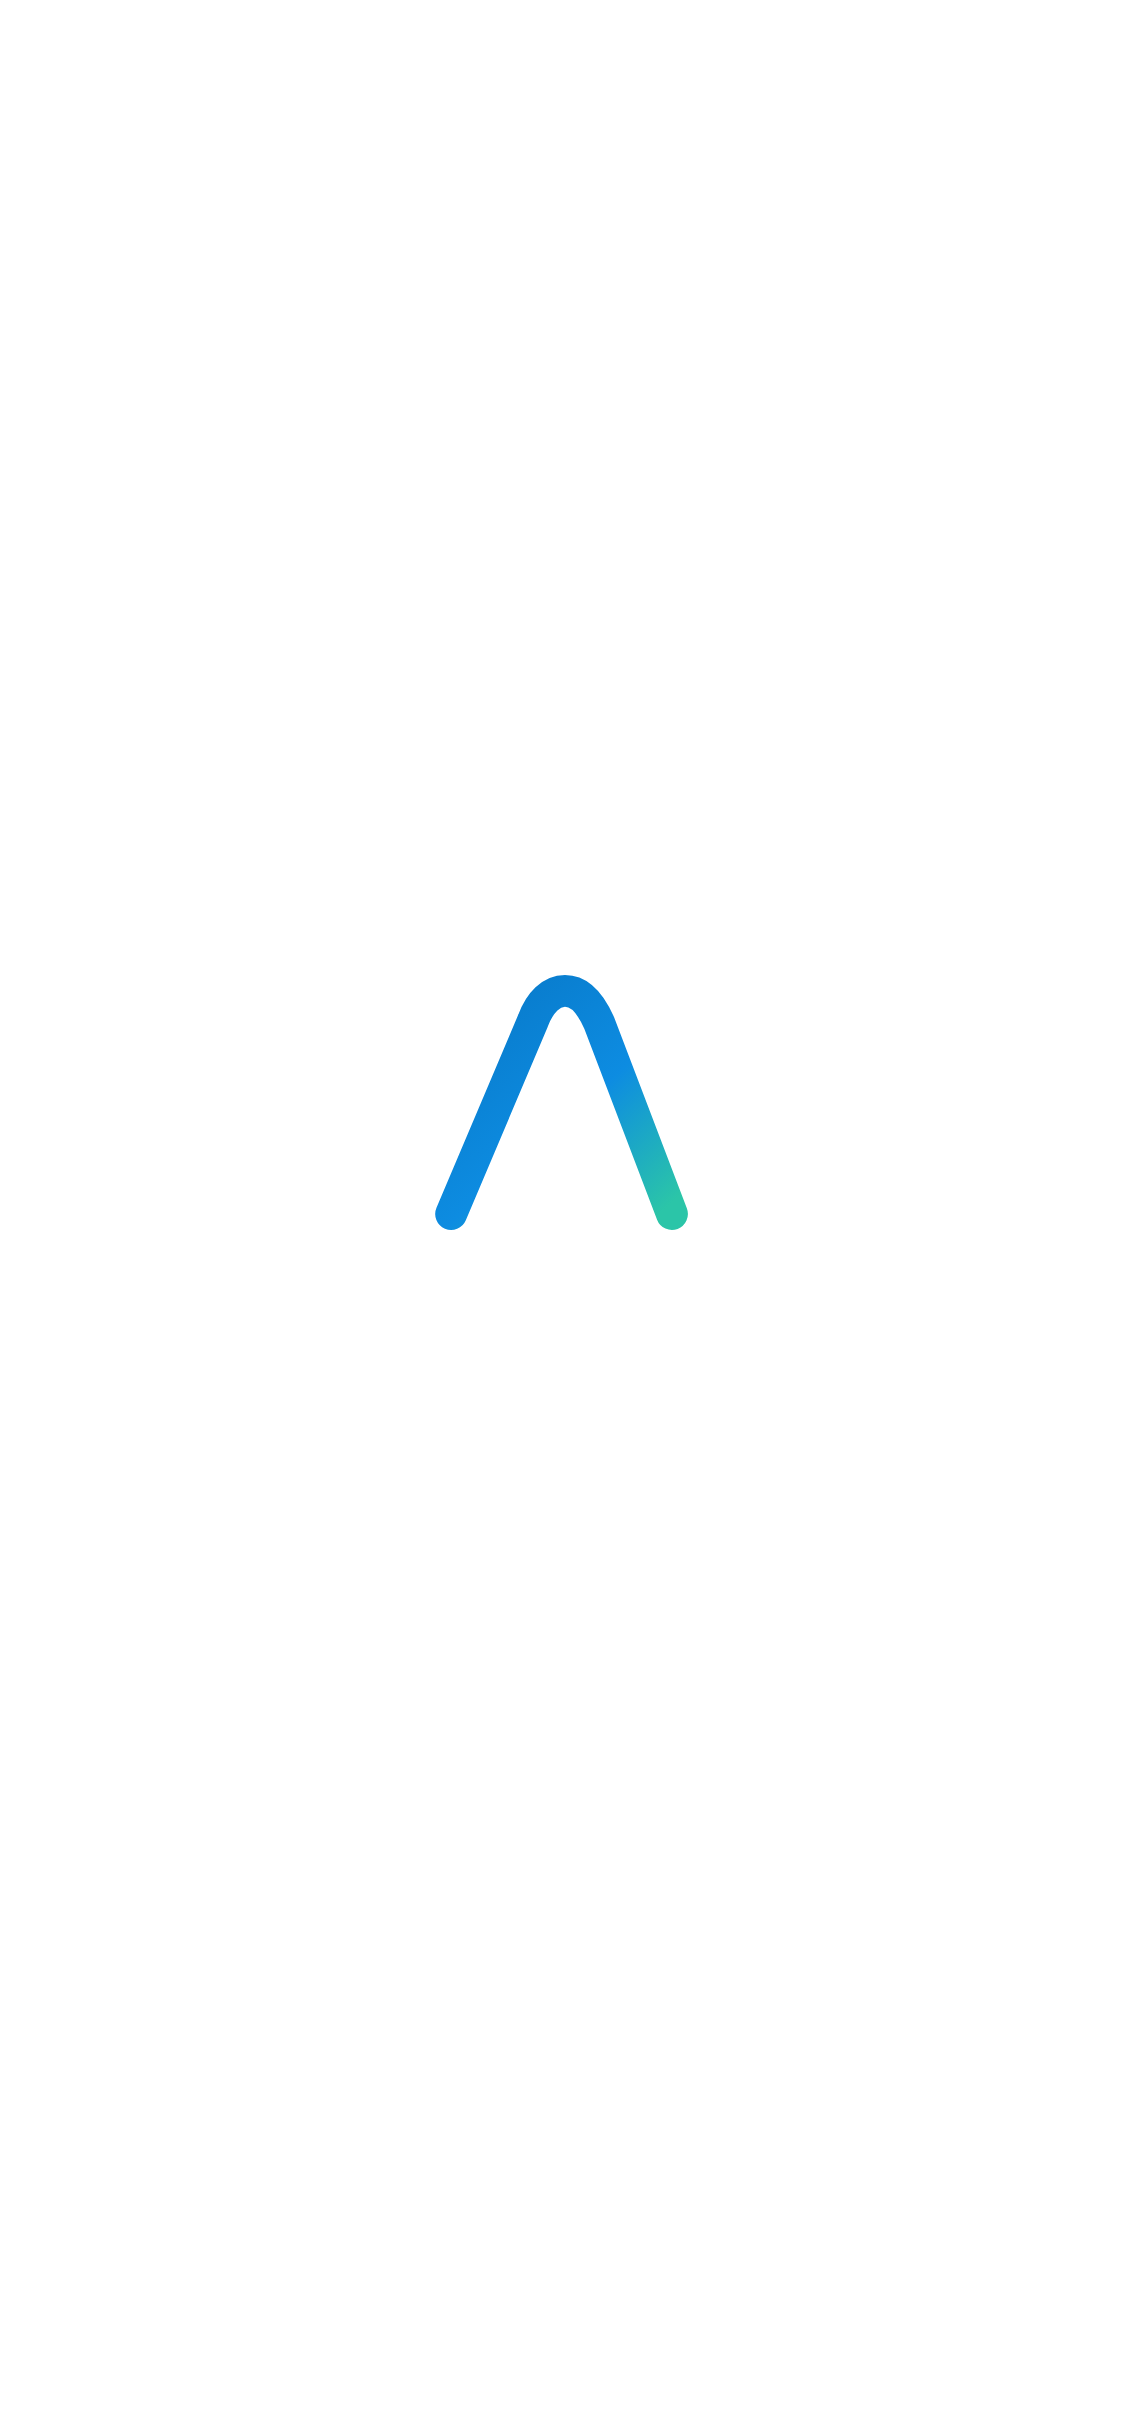
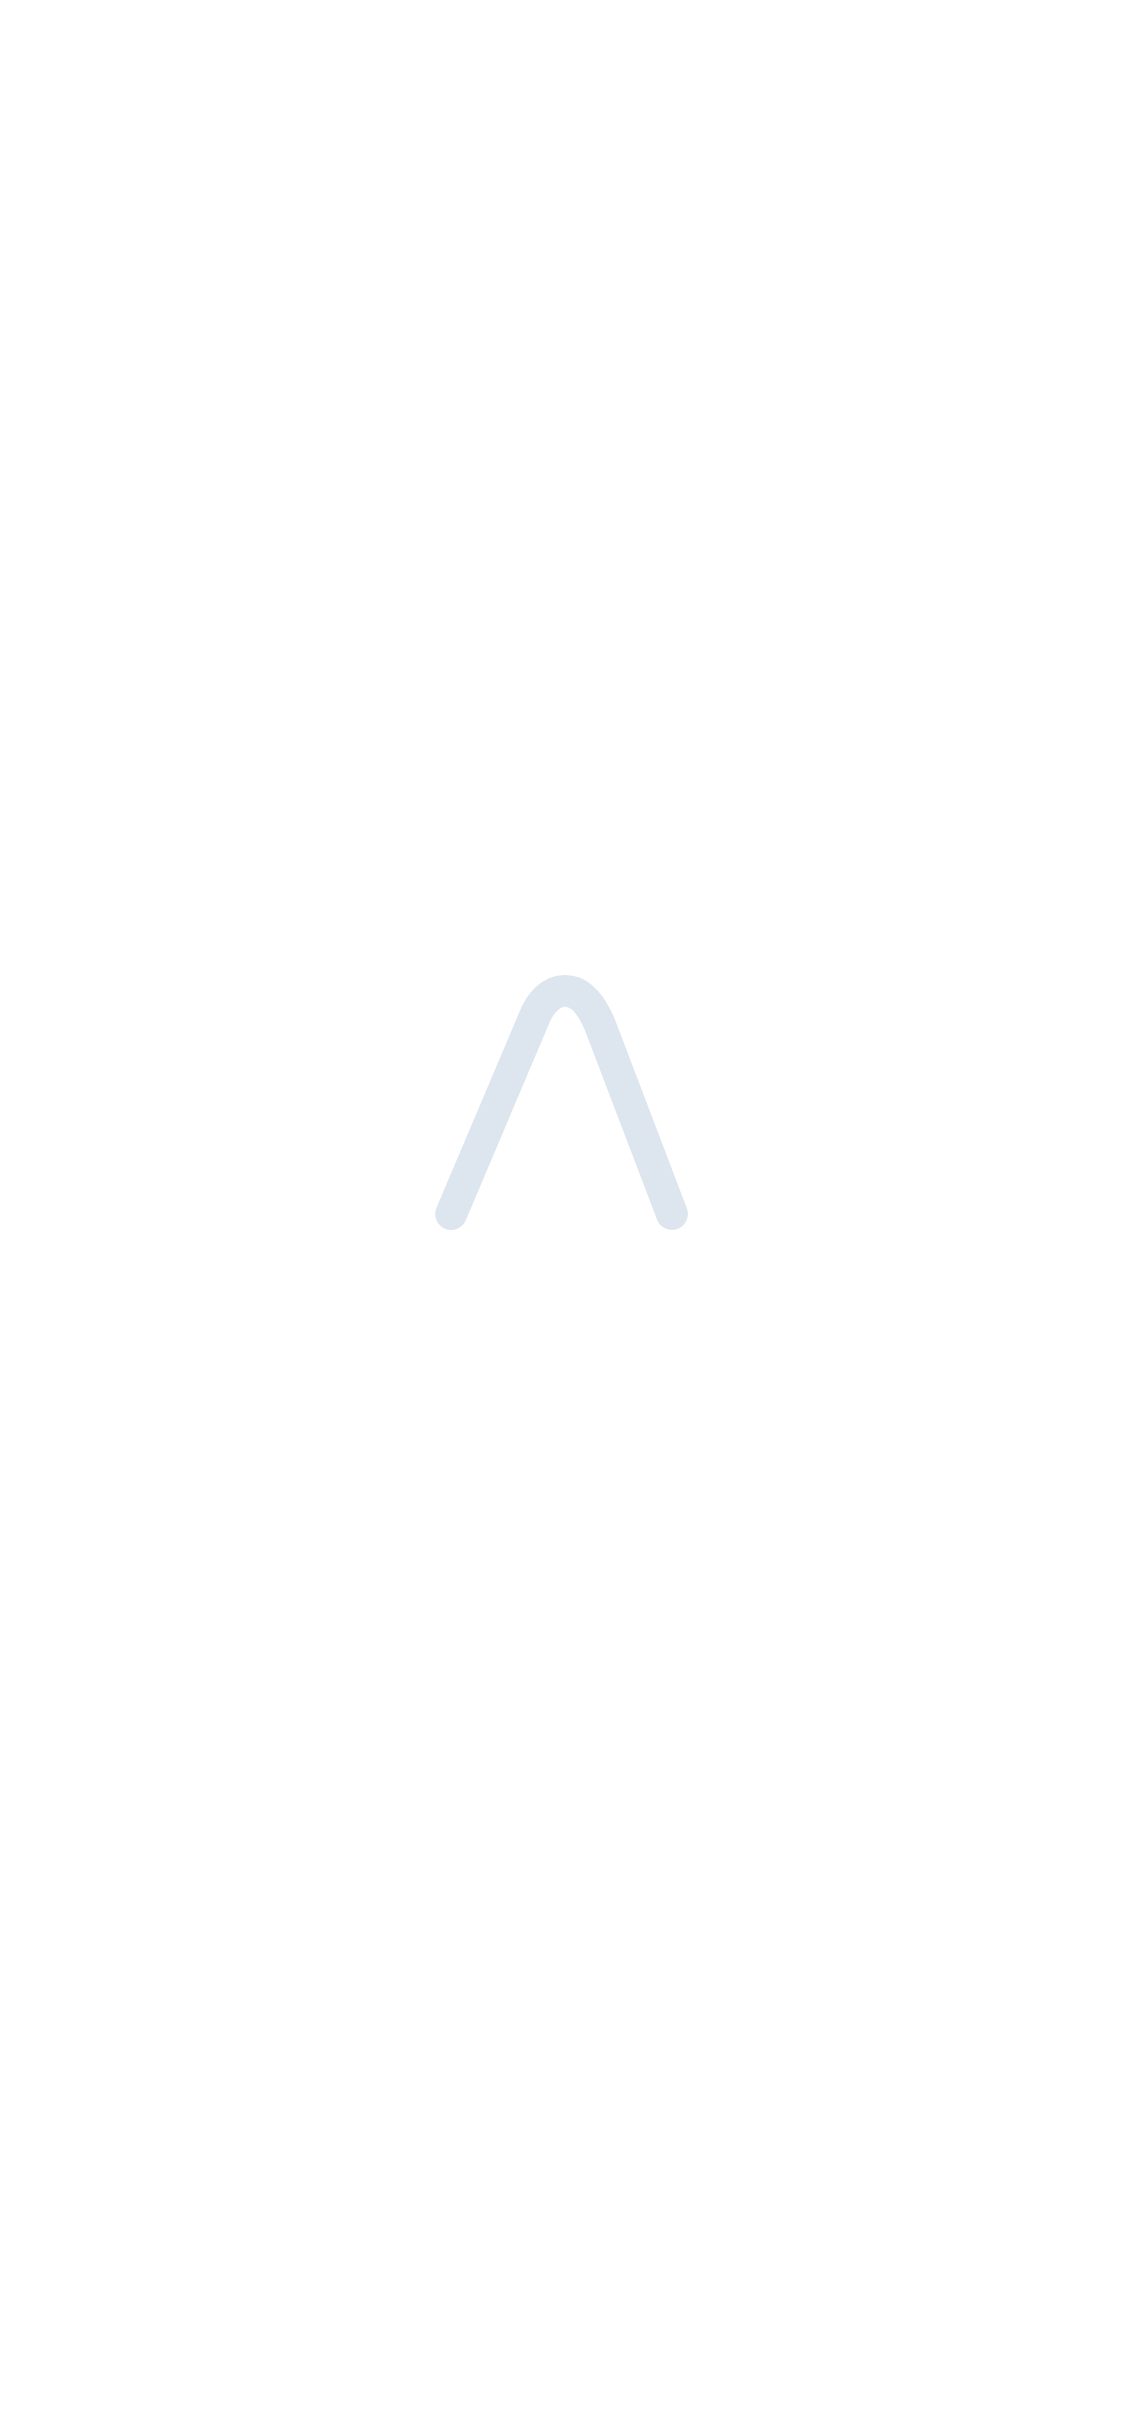
No aplicativo instalado o Λ nunca se desenhava — o trilho conserta isso
O defeito, e ele era meu: para não riscar duas vezes o mesmo traço, o site
pulava o desenho do Λ quando a pessoa entrava pelo ícone, porque a imagem do
iOS já o trazia pintado. O efeito prático era o contrário do pedido — no
aplicativo instalado a ação acontecia SÓ no nome, e o Λ aparecia pronto, sem
nunca se desenhar. Quem usa o AVANEST pelo ícone nunca viu a abertura.

O IMPASSE, e por que as duas saídas óbvias estão erradas:

  Imagem em branco é o problema que estas imagens existem para evitar — o
  aplicativo pareceria travado, e um segundo de tela vazia basta para a pessoa
  achar que não abriu e tocar de novo.

  Imagem com o Λ pintado obriga o site a não desenhá-lo, que é exatamente o
  defeito acima.

O TRILHO resolve os dois: a imagem do iOS mostra o caminho do Λ em cinza claro,
sem o traço colorido. O aparelho tem o que pintar no toque do ícone, e o site
tem o que desenhar em cima. Ninguém repete nada.

E com isso some o caso especial inteiro. Não há mais `vindoDoIcone`, nem
detecção de `display-mode` no roteiro do <head>: uma linha do tempo só, igual
pelo ícone e pelo navegador — Λ em 0,64s, nome em 1,20s, slogan em 1,50s,
cortina em 1,94s. Medido nos dois caminhos, e os dois devolvem os mesmos
números, que é a prova de que o caso especial realmente sumiu.

O trilho da imagem cai sobre onde o traço corre: 22,4% de largura e centro em
45,2% da altura, os mesmos do Λ desenhado. E o quadro final continua igual ao
logo original nas três medidas.
[…]

Changed region(s): [[0.3733, 0.3744, 0.6222, 0.5304]]

diff --git a/app/globals.css b/app/globals.css
@@ -3988,9 +3988,17 @@ input[type="date"]::-webkit-calendar-picker-indicator{margin-inline-start:auto}
    leria um tranco, nao uma revelacao. Cada um ocupa o lugar dele o tempo todo;
    o que muda e so estar ou nao pintado.
 
-   A emenda com a tela de abertura do iPhone: aquela imagem mostra so o nome,
-   que e exatamente o primeiro quadro daqui. O iOS desenha o nome, o site
-   assume, e o Λ se desenha por cima. Sao dois programas e uma animacao so.
+   A EMENDA COM A TELA DE ABERTURA DO IPHONE, que e o que faz a ordem acima
+   valer tambem no aplicativo instalado. Aquela imagem mostra o TRILHO do Λ —
+   o mesmo caminho em cinza claro, sem o traco colorido — mais o espaco vazio
+   do nome e do slogan. O iOS pinta o trilho, o site assume, e o traco corre
+   por cima dele. Sao dois programas e uma animacao so.
+
+   ANTES ERA ERRADO, e vale dizer por que: a imagem trazia o Λ ja pintado, e
+   entao o site pulava o desenho dele para nao riscar duas vezes o mesmo traco.
+   O efeito era que, no aplicativo instalado, o Λ NUNCA se desenhava — a acao
+   acontecia so no nome. Com o trilho na imagem nao ha nada repetido a evitar,
+   e some tambem o caso especial: uma linha do tempo so, igual para todo mundo.
 
    Tudo em CSS, e nao em JavaScript: a cortina precisa estar no PRIMEIRO quadro
    pintado, e um componente de cliente so monta depois da hidratacao — a pessoa
@@ -3999,8 +4007,8 @@ input[type="date"]::-webkit-calendar-picker-indicator{margin-inline-start:auto}
    O RELOGIO INTEIRO. Ele foi acertado por tentativa, e as duas pontas foram
    testadas de verdade: 2,65s ficou de esperar, 1,34s passou rapido demais para
    se ver a marca se formar. O meio termo e este — o Λ fica pronto em 0,64s, o
-   nome em 1,20s, o slogan em 1,50s, e a cortina saiu em 1,94s. Quem entra pelo
-   icone ja tem o Λ desenhado pela imagem do iOS e sai em 1,50s.
+   nome em 1,20s, o slogan em 1,50s, e a cortina saiu em 1,94s. Vale para todo
+   mundo, pelo icone ou pelo navegador.
    ========================================================================== */
 .abertura{position:fixed;inset:0;z-index:9999;display:grid;place-items:center;
   background:#fff;
@@ -4071,30 +4079,10 @@ input[type="date"]::-webkit-calendar-picker-indicator{margin-inline-start:auto}
    vê no codigo: com 320, o desenho so comecaria a aparecer depois que o
    deslocamento descesse de 224, e o primeiro terco da animacao seria tela
    parada. Foi exatamente o que aconteceu na primeira versao disto. */
-.marcaAvanest.animada .marcaSimbolo path{stroke-dasharray:226;stroke-dashoffset:226;
+.marcaTrilho{stroke:#dde6ee}
+.marcaAvanest.animada .marcaSimbolo path:not(.marcaTrilho){stroke-dasharray:226;stroke-dashoffset:226;
   animation:aberturaTraco .64s cubic-bezier(.4,0,.25,1) 0s forwards}
 @keyframes aberturaTraco{to{stroke-dashoffset:0}}
-
-/* --- chegando pelo icone: o nome ja veio pronto na imagem do iOS ---
-   Quem abre pelo icone acabou de ver o Λ desenhado. Redesenha-lo seria riscar
-   duas vezes o mesmo traco, e o olho le isso como travamento. Aqui o Λ ja
-   entra pronto e a animacao continua de onde a imagem do iOS parou: o nome
-   entra, e o slogan fecha a marca.
-
-   O NOME E O SLOGAN CONTINUAM ANIMANDO NESTE CAMINHO, ao contrario do Λ — a
-   imagem do iOS nao traz nenhum dos dois, entao nao foram vistos antes e nao
-   ha o que repetir. A cortina sai antes so porque a parte que falta e mais
-   curta. */
-.vindoDoIcone .abertura{animation-delay:1.16s}
-.vindoDoIcone .marcaAvanest.animada .marcaSimbolo path{stroke-dashoffset:0;animation:none}
-.vindoDoIcone .marcaAvanest.animada .marcaNome span:nth-child(1){animation-delay:.10s}
-.vindoDoIcone .marcaAvanest.animada .marcaNome span:nth-child(2){animation-delay:.15s}
-.vindoDoIcone .marcaAvanest.animada .marcaNome span:nth-child(3){animation-delay:.20s}
-.vindoDoIcone .marcaAvanest.animada .marcaNome span:nth-child(4){animation-delay:.25s}
-.vindoDoIcone .marcaAvanest.animada .marcaNome span:nth-child(5){animation-delay:.30s}
-.vindoDoIcone .marcaAvanest.animada .marcaNome span:nth-child(6){animation-delay:.35s}
-.vindoDoIcone .marcaAvanest.animada .marcaNome span:nth-child(7){animation-delay:.40s}
-.vindoDoIcone .marcaAvanest.animada .marcaSlogan{animation-delay:.70s}
 
 /* Quem pediu menos movimento recebe a marca pronta, e a cortina sai logo. Nao
    e "sem animacao nenhuma": sumir de uma vez seria um pisca-pisca, que e
@@ -4103,5 +4091,5 @@ input[type="date"]::-webkit-calendar-picker-indicator{margin-inline-start:auto}
   .abertura{animation:aberturaSai .3s ease-in .25s forwards}
   .marcaAvanest.animada .marcaNome span,
   .marcaAvanest.animada .marcaSlogan{opacity:1;transform:none;animation:none}
-  .marcaAvanest.animada .marcaSimbolo path{stroke-dashoffset:0;animation:none}
+  .marcaAvanest.animada .marcaSimbolo path:not(.marcaTrilho){stroke-dashoffset:0;animation:none}
 }

diff --git a/components/abertura-animada.tsx b/components/abertura-animada.tsx
@@ -30,10 +30,10 @@
  * `pointer-events:none`. Se o JavaScript falhar, a abertura ainda termina e
  * ninguém fica preso atrás dela.
  *
- * O ÚNICO JavaScript é o roteiro embutido abaixo, e ele decide duas coisas: se
- * esta sessão já viu a abertura, e de onde a pessoa está chegando. Precisa
- * rodar antes da primeira pintura — daí ser embutido e bloqueante —, porque
- * decidir isso depois já seria tarde: a cortina teria piscado.
+ * O ÚNICO JavaScript é o roteiro embutido abaixo, e ele decide uma coisa só:
+ * se esta sessão já viu a abertura. Precisa rodar antes da primeira pintura —
+ * daí ser embutido e bloqueante —, porque decidir isso depois já seria tarde:
+ * a cortina teria piscado.
  */
 
 /**
@@ -48,21 +48,16 @@
  * O try/catch não é decorativo: em navegação privada e com cookies bloqueados,
  * só de LER o `sessionStorage` alguns navegadores lançam. Sem ele, a exceção
  * subiria num roteiro bloqueante do <head> e derrubaria a página inteira antes
- * de qualquer coisa aparecer. Se der erro, a abertura simplesmente toca. São
- * dois try/catch separados de propósito: uma falha na leitura do armazenamento
- * não pode levar junto a detecção de onde a pessoa veio.
+ * de qualquer coisa aparecer. Se der erro, a abertura simplesmente toca.
  *
- * E É POR ISSO QUE HÁ UM `display-mode: standalone` AQUI. Quem abre pelo ícone
- * já viu o nome desenhado — foi a imagem que o iOS mostrou. Repetir a entrada
- * das letras ali seria montar duas vezes a mesma palavra, e o olho lê isso
- * como travamento, não como abertura. Nesse caminho o nome já entra pronto e
- * só o Λ se desenha, que é exatamente onde a imagem do iOS parou. No navegador
- * comum não houve imagem nenhuma antes, e a animação toca inteira.
+ * NÃO HÁ MAIS DETECÇÃO DE "VEIO PELO ÍCONE" AQUI, e a remoção foi o conserto
+ * de um defeito real. Ela existia para não redesenhar o que a imagem do iOS já
+ * mostrava — mas o efeito prático era que, no aplicativo instalado, o Λ NUNCA
+ * se desenhava: a pessoa via ação só no nome. Como agora a imagem do iOS traz
+ * apenas o TRILHO do Λ, e não o traço pintado, não há nada repetido a evitar:
+ * uma linha do tempo só, igual para todo mundo.
  */
 const ROTEIRO_DA_ABERTURA = `try{
-if(matchMedia('(display-mode: standalone)').matches){document.documentElement.className+=' vindoDoIcone'}
-}catch(e){}
-try{
 if(sessionStorage.getItem('avanest:abertura')){document.documentElement.className+=' semAbertura'}
 else{sessionStorage.setItem('avanest:abertura','1')}
 }catch(e){}`;
@@ -92,6 +87,16 @@ export function MarcaAvanest({ animada = true }: { animada?: boolean }) {
             <stop offset="1" stopColor="#2bc5a8" />
           </linearGradient>
         </defs>
+        {/* O TRILHO — o mesmo caminho, em cinza claro, por baixo.
+            Ele existe para que a imagem do iOS não precise ficar em branco nem
+            mostrar o Λ já pintado. Mostrando o trilho, o aparelho tem o que
+            desenhar no toque do ícone, e o site continua exatamente dali:
+            o traço colorido corre POR CIMA do trilho.
+            Sem ele, das duas uma — ou a imagem era branca, e o aplicativo
+            parecia travado, ou trazia o Λ pronto, e aí não havia o que
+            desenhar depois. */}
+        <path className="marcaTrilho" d={CAMINHO_DO_LAMBDA} fill="none"
+          strokeLinecap="round" strokeLinejoin="round" strokeWidth={14} />
         <path d={CAMINHO_DO_LAMBDA} fill="none" stroke="url(#marcaAvn)"
           strokeLinecap="round" strokeLinejoin="round" strokeWidth={14} />
       </svg>
